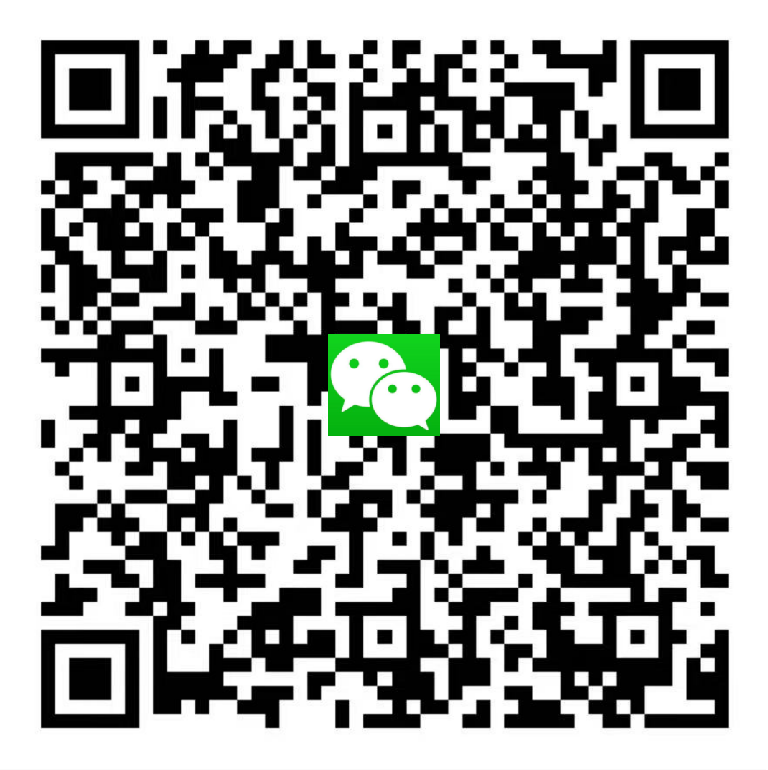
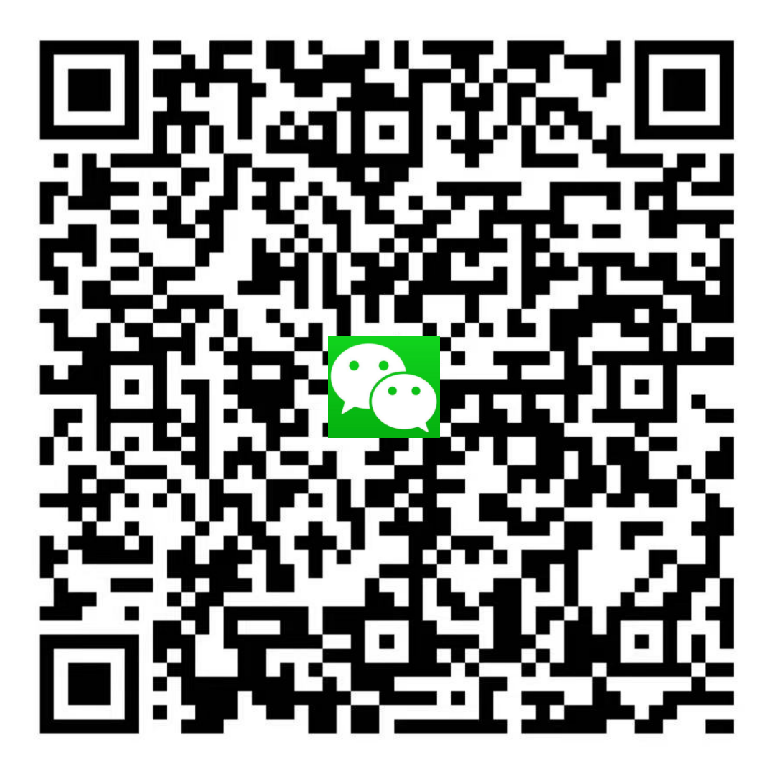
Update joinus.png and PR process
Update joinus.png and PR process

diff --git a/doc/doc_ch/code_and_doc.md b/doc/doc_ch/code_and_doc.md
@@ -153,7 +153,7 @@ cd PaddleOCR
 
 > 多数情况下clone失败是由于网络原因，请稍后重试或配置代理
 
-#### 3.2.2 和 `远程仓库` 建立连接
+#### 3.2.2 通过Token方式登录与建立连接
 
 首先查看当前 `远程仓库` 的信息。
 
@@ -163,7 +163,24 @@ git remote -v
 # origin    https://github.com/{your_name}/PaddleOCR.git (push)
 ```
 
-只有clone的 `远程仓库` 的信息，也就是自己用户名下的 PaddleOCR，接下来我们创建一个原始 PaddleOCR 仓库的远程主机，命名为 upstream。
+只有clone的 `远程仓库` 的信息，也就是自己用户名下的 PaddleOCR。由于Github的登录方式变化，需要通过Token的方式重新配置 `远程仓库` 的地址。生成Token的方式如下：
+
+1. 找到个人访问令牌（token）：在Github页面右上角点击自己的头像，然后依次选择 Settings --> Developer settings --> Personal access tokens
+2. 点击 Generate new token：在Note中填入token名称，例如’paddle‘。在Select scopes选择repo（必选）、admin:repo_hook、delete_repo等，可根据自身需要勾选。然后点击Generate token生成token。最后复制生成的token。
+
+删除原始的origin配置
+
+```
+git remote rm origin
+```
+
+将remote分支改成 `https://oauth2:{token}@github.com/{your_name}/PaddleOCR.git`。例如：如果token值为12345，你的用户名为PPOCR，则运行下方命令
+
+```
+git remote add origin https://oauth2:12345@github.com/PPOCR/PaddleOCR.git
+```
+
+这样我们就与自己的 `远程仓库` 建立了连接。接下来我们创建一个原始 PaddleOCR 仓库的远程主机，命名为 upstream。
 
 ```
 git remote add upstream https://github.com/PaddlePaddle/PaddleOCR.git
@@ -172,8 +189,8 @@ git remote add upstream https://github.com/PaddlePaddle/PaddleOCR.git
 使用 `git remote -v` 查看当前 `远程仓库` 的信息，输出如下，发现包括了origin和upstream 2个 `远程仓库` 。
 
 ```
-origin    https://github.com/{your_name}/PaddleOCR.git (fetch)
-origin    https://github.com/{your_name}/PaddleOCR.git (push)
+origin    https://oauth2:{token}@github.com/{your_name}/PaddleOCR.git (fetch)
+origin    https://oauth2:{token}@github.com/{your_name}/PaddleOCR.git (push)
 upstream    https://github.com/PaddlePaddle/PaddleOCR.git (fetch)
 upstream    https://github.com/PaddlePaddle/PaddleOCR.git (push)
 ```
@@ -182,21 +199,22 @@ upstream    https://github.com/PaddlePaddle/PaddleOCR.git (push)
 
 #### 3.2.3 创建本地分支
 
-可以基于当前分支创建新的本地分支，命令如下。
+首先获取 upstream 的最新代码，然后基于上游仓库 (upstream)的dygraph创建new_branch分支。
 
 ```
-git checkout -b new_branch
-```
-
-也可以基于远程或者上游的分支创建新的分支，命令如下。
-
-```
-# 基于用户远程仓库(origin)的dygraph创建new_branch分支
-git checkout -b new_branch origin/dygraph
-# 基于上游远程仓库(upstream)的dygraph创建new_branch分支
-# 如果需要从upstream创建新的分支，需要首先使用git fetch upstream获取上游代码
+git fetch upstream
 git checkout -b new_branch upstream/dygraph
 ```
+
+> 如果对于新Fork的PaddleOCR项目，用户远程仓库(origin)与上游(upstream)仓库的分支更新情况相同，也可以基于origin仓库的默认分支或指定分支创建新的本地分支，命令如下。
+>
+> ```
+> # 基于用户远程仓库(origin)的dygraph创建new_branch分支
+> git checkout -b new_branch origin/dygraph
+> 
+> # 基于用户远程仓库(origin)的默认分支创建new_branch分支
+> git checkout -b new_branch
+> ```
 
 最终会显示切换到新的分支，输出信息如下
 
@@ -204,6 +222,8 @@ git checkout -b new_branch upstream/dygraph
 Branch new_branch set up to track remote branch develop from upstream.
 Switched to a new branch 'new_branch'
 ```
+
+切换分支之后即可在此分支上进行文件改动
 
 #### 3.2.4 使用pre-commit勾子
 
@@ -234,23 +254,15 @@ pre-commit
 
 ![img](../precommit_pass.png)
 
-使用下面的命令完成提交。
+提交修改，并写明修改内容（"your commit info"）
 
 ```
-git commit -m "your commit info"
+git commit -m "your commit info" 
 ```
 
-#### 3.2.6 保持本地仓库最新
+#### 3.2.6 Push到远程仓库
 
-获取 upstream 的最新代码并更新当前分支。这里的upstream来自于2.2节的`和远程仓库建立连接`部分。
-
-```
-git fetch upstream
-# 如果是希望提交到其他分支，则需要从upstream的其他分支pull代码，这里是dygraph
-git pull upstream dygraph
-```
-
-#### 3.2.7 push到远程仓库
+使用push命令将修改的commit提交到 `远程仓库` 
 
 ```
 git push origin new_branch
@@ -258,7 +270,7 @@ git push origin new_branch
 
 #### 3.2.7 提交Pull Request
 
-点击new pull request，选择本地分支和目标分支，如下图所示。在PR的描述说明中，填写该PR所完成的功能。接下来等待review，如果有需要修改的地方，参照上述步骤更新 origin 中的对应分支即可。
+打开自己的远程仓库界面，选择提交的分支。点击new pull request或contribute进入PR界面。选择本地分支和目标分支，如下图所示。在PR的描述说明中，填写该PR所完成的功能。接下来等待review，如果有需要修改的地方，参照上述步骤更新 origin 中的对应分支即可。
 
 ![banner](../pr.png)
 
@@ -285,8 +297,8 @@ git push origin new_branch
 - 删除本地分支
 
   ```
-  # 切换到develop分支，否则无法删除当前分支
-  git checkout develop
+  # 切换到dygraph分支，否则无法删除当前分支
+  git checkout dygraph
   
   # 删除new_branch分支
   git branch -D new_branch
@@ -309,7 +321,6 @@ git push origin new_branch
   建议：每次提交时，保持尽量少的commit，可以通过git commit --amend补充上次的commit。对已经Push到远程仓库的多个commit，可以参考[squash commits after push](https://stackoverflow.com/questions/5667884/how-to-squash-commits-in-git-after-they-have-been-pushed)。
 
 - 请注意每个commit的名称：应能反映当前commit的内容，不能太随意。
-
 
 3）如果解决了某个Issue的问题，请在该Pull Request的第一个评论框中加上：fix #issue_number，这样当该Pull Request被合并后，会自动关闭对应的Issue。关键词包括：close, closes, closed, fix, fixes, fixed, resolve, resolves, resolved，请选择合适的词汇。详细可参考[Closing issues via commit messages](https://help.github.com/articles/closing-issues-via-commit-messages)。
 
